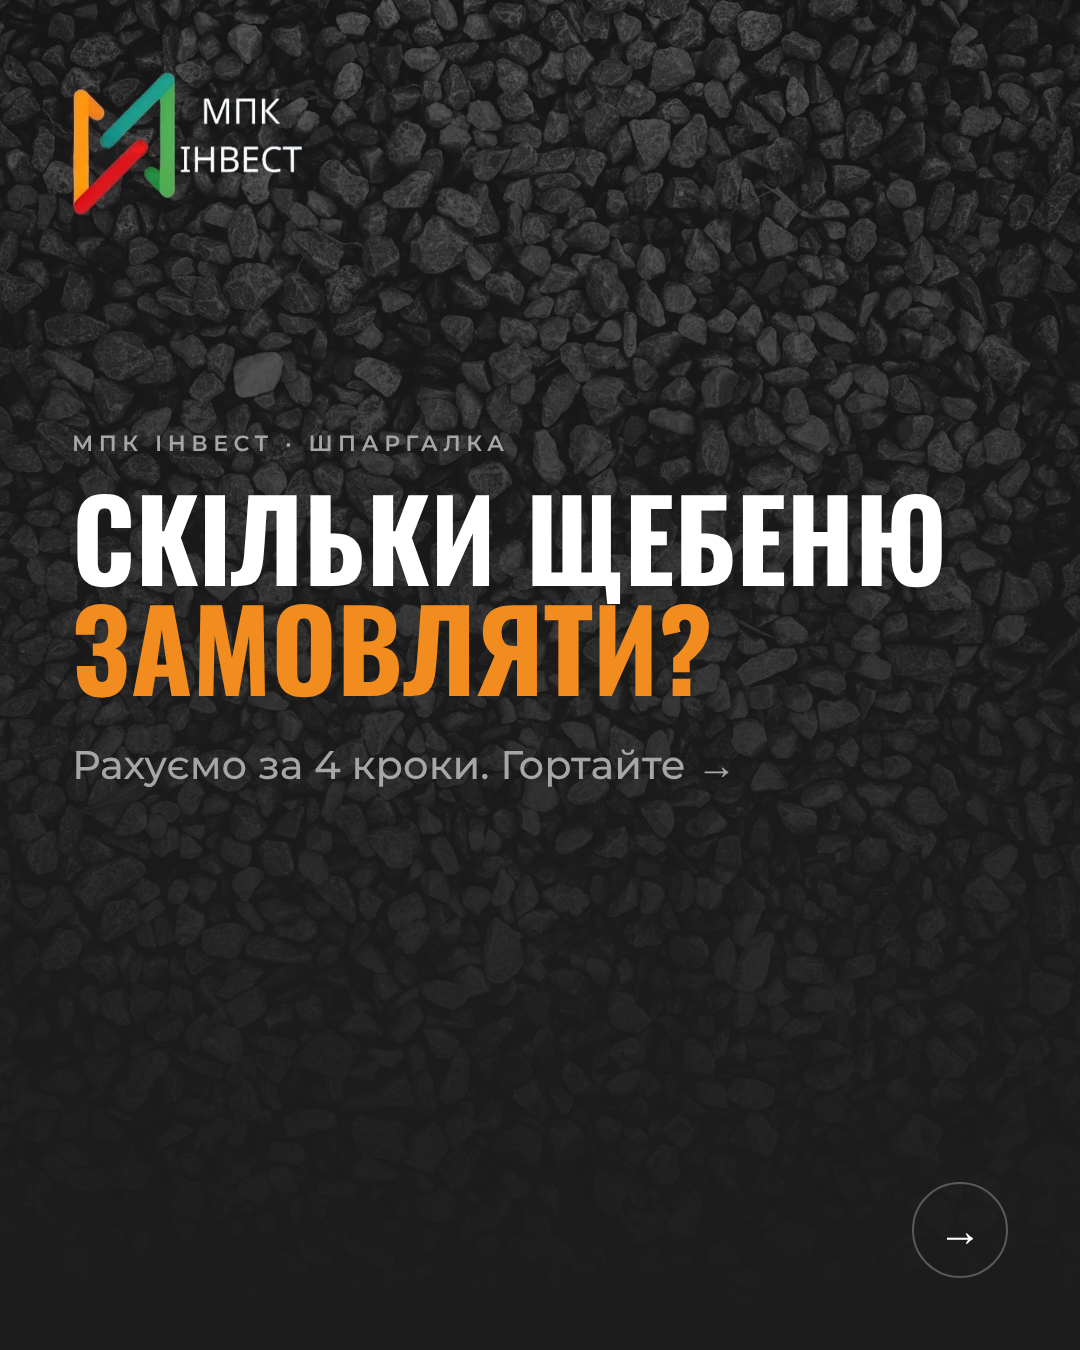
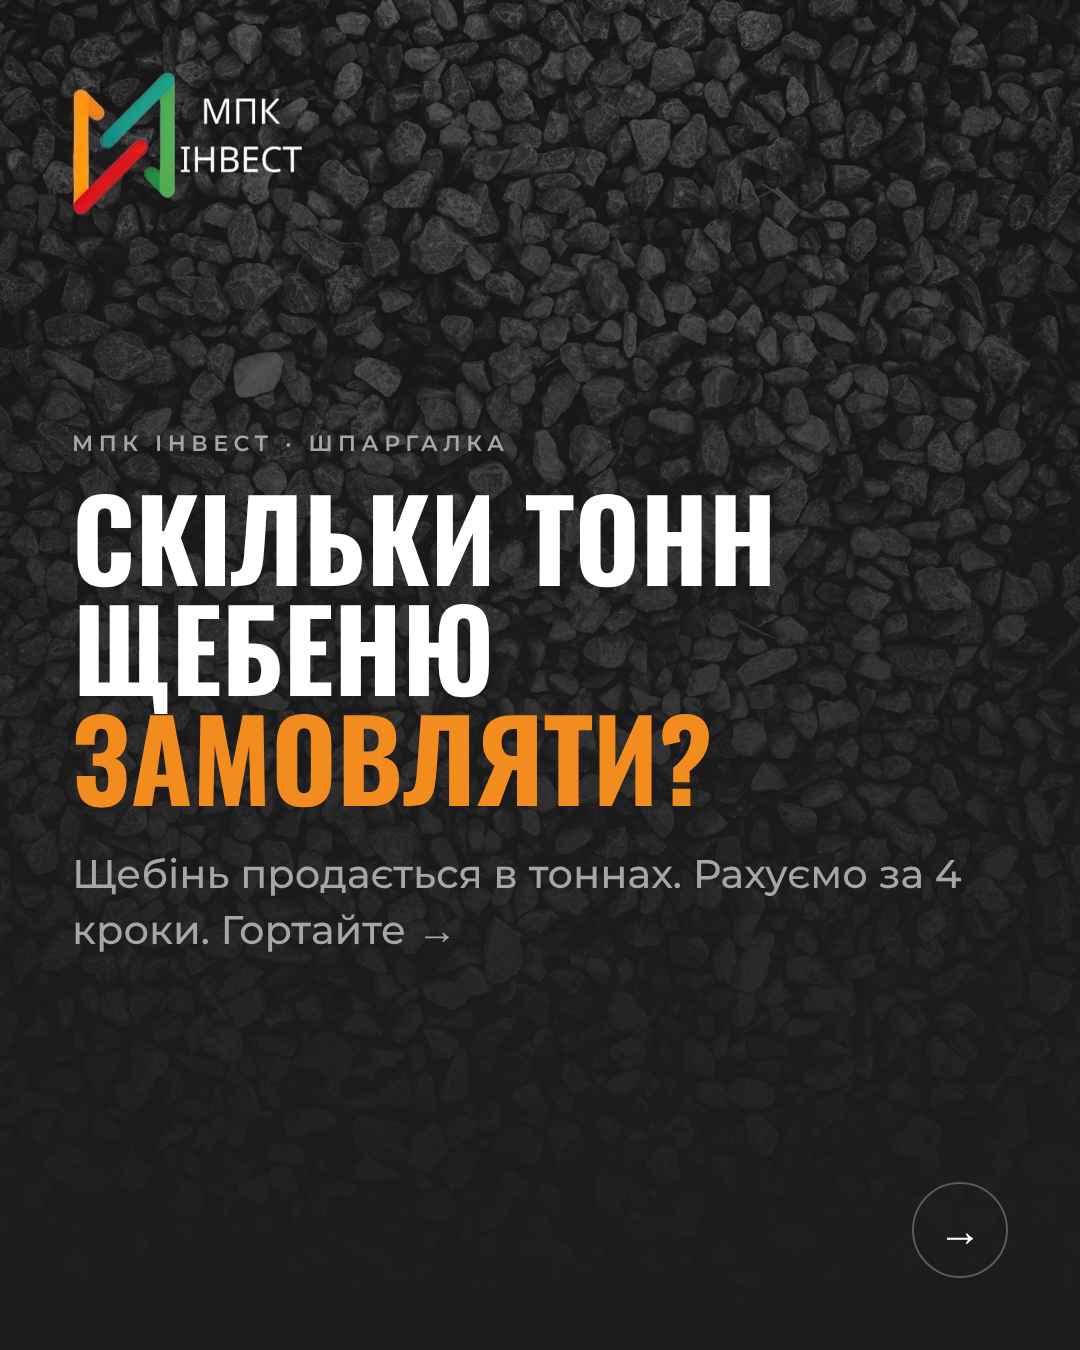
mpk-invest: carousel 4 recalculated to tonnes (sold by tonne)
Claude-Session: https://claude.ai/code/session_01AWhP1rcQ4RM4eLbmxttza6

Changed region(s): [[0.0611, 0.3422, 0.8861, 0.7156], [0.6417, 0.6222, 0.7944, 0.6533], [0.825, 0.6222, 0.8861, 0.6533]]

diff --git a/klienty/mpk-invest/vizual/karuseli-tyzhden-2-ishodnik/build.py b/klienty/mpk-invest/vizual/karuseli-tyzhden-2-ishodnik/build.py
@@ -2,14 +2,14 @@ import html,sys,json
 K=sys.argv[1]
 E=html.escape
 CAR={
-'k4':[('cover','МПК ІНВЕСТ · ШПАРГАЛКА','Скільки щебеню <span class="o">замовляти?</span>','Рахуємо за 4 кроки. Гортайте →',None),
+'k4':[('cover','МПК ІНВЕСТ · ШПАРГАЛКА','Скільки тонн щебеню <span class="o">замовляти?</span>','Щебінь продається в тоннах. Рахуємо за 4 кроки. Гортайте →',None),
  ('step','КРОК 1','Об\'єм','Товщину переведіть в метри: 10 см = 0,1 м.','ПЛОЩА × ТОВЩИНА = ОБ\'ЄМ, м³'),
- ('step','ПРИКЛАД','Умовний приклад','Числа для ілюстрації, не рекомендація для вашого об\'єкта.','100 м² × 0,1 м = 10 м³'),
- ('step','КРОК 2','Тонни','Щебінь рахують у тоннах, тому без цього кроку замовлення не складеться.','ОБ\'ЄМ × ЩІЛЬНІСТЬ = ТОННИ'),
- ('step','ВАЖЛИВО','Щільність','Щільність залежить від фракції. Перед розрахунком уточніть її для вашої фракції.',None),
+ ('step','КРОК 2','Тонни','Щебінь продається в тоннах, тому об\'єм переводимо у вагу.','ОБ\'ЄМ × ЩІЛЬНІСТЬ = ТОННИ'),
+ ('step','ВАЖЛИВО','Щільність','Орієнтовна насипна щільність гранітного щебеню. Для різних фракцій вона трохи відрізняється — точну уточнюйте при замовленні.','≈ 1,4 т/м³'),
+ ('step','ПРИКЛАД','Умовний приклад','Числа для ілюстрації, не рекомендація для вашого об\'єкта.','100 м² × 0,1 м = 10 м³|10 м³ × 1,4 т/м³ ≈ 14 т'),
  ('step','КРОК 3','Запас','Додайте запас на ущільнення і втрати. Розмір запасу визначайте за проєктом або технологією робіт.',None),
  ('step','КРОК 4','Фракція','Перевірте, що фракція підходить під задачу.','ЩЕБІНЬ 5–10 … 40–70 мм|ЩПС 0–40, 0–70 мм|ПІСОК'),
- ('cta',None,'Замовте <span class="o">доставку</span>','Об\'єми: від мішка до самоскида.',None)],
+ ('cta',None,'Замовте <span class="o">доставку</span>','Продаємо в тоннах. Об\'єми: від мішка до самоскида.',None)],
 'k5':[('cover','МПК ІНВЕСТ · ЯК ЗАМОВИТИ','Як замовити щебінь: <span class="o">від заявки до доставки</span>','Чотири кроки. Гортайте →',None),
  ('step','01','Заявка','Телефоном або на сайті mpc-invest.com.ua.',None),
  ('step','02','Фракція й об\'єм','Об\'єми: від мішка до самоскида.',None),

diff --git a/klienty/mpk-invest/teksty/2026-11-tyzhden-2-karuseli.md b/klienty/mpk-invest/teksty/2026-11-tyzhden-2-karuseli.md
@@ -14,27 +14,31 @@
 **Цель:** сохранения (формула под рукой), затем заказ доставки.
 **Призыв:** один, «Замовте доставку». Слово «РОЗРАХУНОК» из плана не используем, чтобы не обещать расчёт и не давать два призыва.
 
-### Слайды
-| № | Крупный текст | Мелкий текст |
+### Слайды (версия 23.11 «в тоннах»: решение директора — компания продаёт щебень в тоннах, расчёт ведём до тонн)
+| № | Крупный текст | Мелкий текст / плашка |
 |---|---|---|
-| 1 | СКІЛЬКИ ЩЕБЕНЮ ЗАМОВЛЯТИ? | Рахуємо за 4 кроки. Гортайте → |
-| 2 | КРОК 1. ОБ'ЄМ | Площа × товщина шару = об'єм у м³. Товщину переведіть в метри: 10 см = 0,1 м. |
-| 3 | УМОВНИЙ ПРИКЛАД | 100 м² × 0,1 м = 10 м³. Числа для ілюстрації, не рекомендація для вашого об'єкта. |
-| 4 | КРОК 2. ТОННИ | Об'єм × щільність = маса в тоннах. Щебінь рахують у тоннах, тому без цього кроку замовлення не складеться. |
-| 5 | ЩІЛЬНІСТЬ | Щільність залежить від фракції. Перед розрахунком уточніть її для вашої фракції. |
+| 1 | СКІЛЬКИ ТОНН ЩЕБЕНЮ ЗАМОВЛЯТИ? | Щебінь продається в тоннах. Рахуємо за 4 кроки. Гортайте → |
+| 2 | КРОК 1. ОБ'ЄМ | Плашка «ПЛОЩА × ТОВЩИНА = ОБ'ЄМ, м³». Товщину переведіть в метри: 10 см = 0,1 м. |
+| 3 | КРОК 2. ТОННИ | Плашка «ОБ'ЄМ × ЩІЛЬНІСТЬ = ТОННИ». Щебінь продається в тоннах, тому об'єм переводимо у вагу. |
+| 4 | ЩІЛЬНІСТЬ | Плашка «≈ 1,4 т/м³». Орієнтовна насипна щільність гранітного щебеню. Для різних фракцій вона трохи відрізняється — точну уточнюйте при замовленні. |
+| 5 | УМОВНИЙ ПРИКЛАД | Плашки «100 м² × 0,1 м = 10 м³» и «10 м³ × 1,4 т/м³ ≈ 14 т». Числа для ілюстрації, не рекомендація для вашого об'єкта. |
 | 6 | КРОК 3. ЗАПАС | Додайте запас на ущільнення і втрати. Розмір запасу визначайте за проєктом або технологією робіт. |
-| 7 | КРОК 4. ФРАКЦІЯ | Перевірте, що фракція підходить під задачу. Щебінь гранітний від 5-10 до 40-70 мм, ЩПС 0-40 і 0-70 мм, пісок. |
-| 8 | ЗАМОВТЕ ДОСТАВКУ | Об'єми: від мішка до самоскида. 050 010 66 25 · 050 444 45 21 · mpc-invest.com.ua |
+| 7 | КРОК 4. ФРАКЦІЯ | Плашки: щебінь 5–10 … 40–70 мм; ЩПС 0–40, 0–70 мм; пісок. Перевірте, що фракція підходить під задачу. |
+| 8 | ЗАМОВТЕ ДОСТАВКУ | Продаємо в тоннах. Об'єми: від мішка до самоскида. 050 010 66 25 · 050 444 45 21 · mpc-invest.com.ua |
+
+Плотность ≈1,4 т/м³ — общеизвестное ориентировочное значение для гранитного щебня (не данные клиента), подписано как «орієнтовна»; желательно подтвердить у клиента.
 
 ### Подпись
-Скільки щебеню замовляти на об'єкт? Рахуємо за 4 кроки.
+Скільки тонн щебеню замовляти на об'єкт? Рахуємо за 4 кроки.
 
 1. Площа × товщина шару = об'єм у м³.
-2. Об'єм × щільність = тонни. Щільність залежить від фракції: перед розрахунком уточніть її для вашої фракції.
+2. Об'єм × щільність = тонни. Орієнтовна насипна щільність гранітного щебеню ≈ 1,4 т/м³, для різних фракцій трохи відрізняється — точну уточнюйте при замовленні.
 3. Додайте запас на ущільнення і втрати.
 4. Перевірте, що фракція підходить під задачу.
 
-Об'єми: від мішка до самоскида.
+Наприклад: 100 м² × 0,1 м = 10 м³; 10 м³ × 1,4 т/м³ ≈ 14 т (числа для ілюстрації).
+
+Продаємо в тоннах. Об'єми: від мішка до самоскида.
 
 Замовте доставку: 050 010 66 25, 050 444 45 21 або на mpc-invest.com.ua
 

diff --git a/klienty/mpk-invest/brif.md b/klienty/mpk-invest/brif.md
@@ -37,7 +37,7 @@
 ## 3. Продажи
 
 11. Путь клиента: нет данных.
-12. Средний чек и срок сделки: нет данных. Типичный объём заказа неизвестен.
+12. Единица продажи: щебень продаётся в тоннах [директор 23.11]. Средний чек и срок сделки: нет данных. Типичный объём заказа неизвестен.
 13. Заявок или продаж в месяц: нет данных. Базы по обращениям в директ нет (из анализа 11.11).
 14. Кто обрабатывает заявки и как быстро: нет данных. В прайсе указан менеджер Пономарчук Анна, тел. +38-050-010-66-25, и телефон компании +380950522055. Её роль в обработке директа не подтверждена. Телефоны для публикаций по брендбуку 22.11: 050 010 66 25 и 050 444 45 21. Решение директора 22.11: в публикациях только номера из брендбука; +380950522055 из прайса не используем. План строится на призыве «напишіть слово у директ», поэтому это критичный пробел.
 
